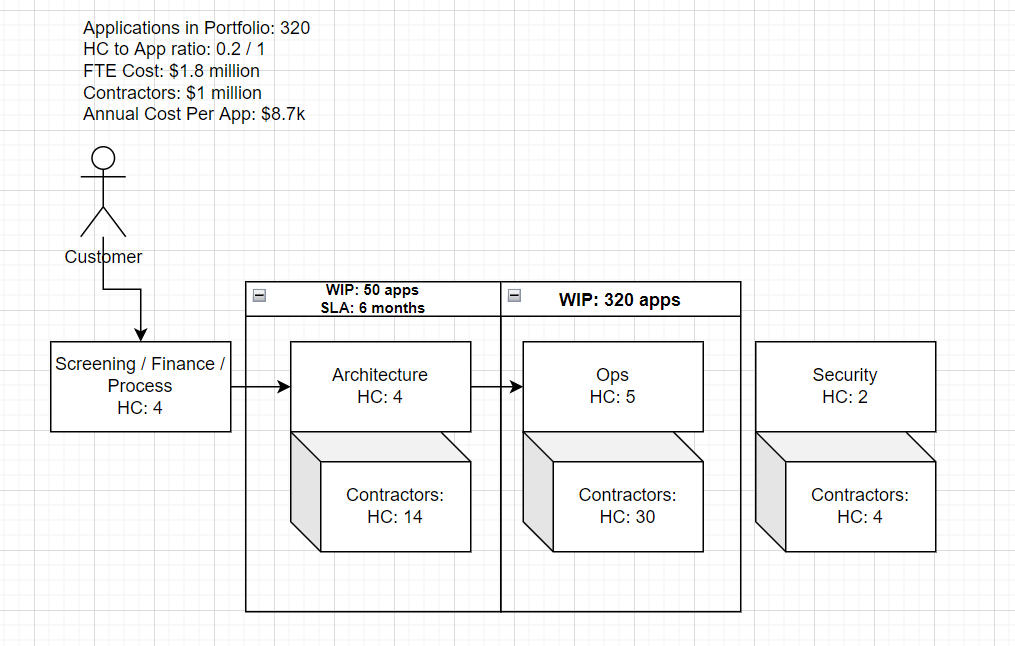
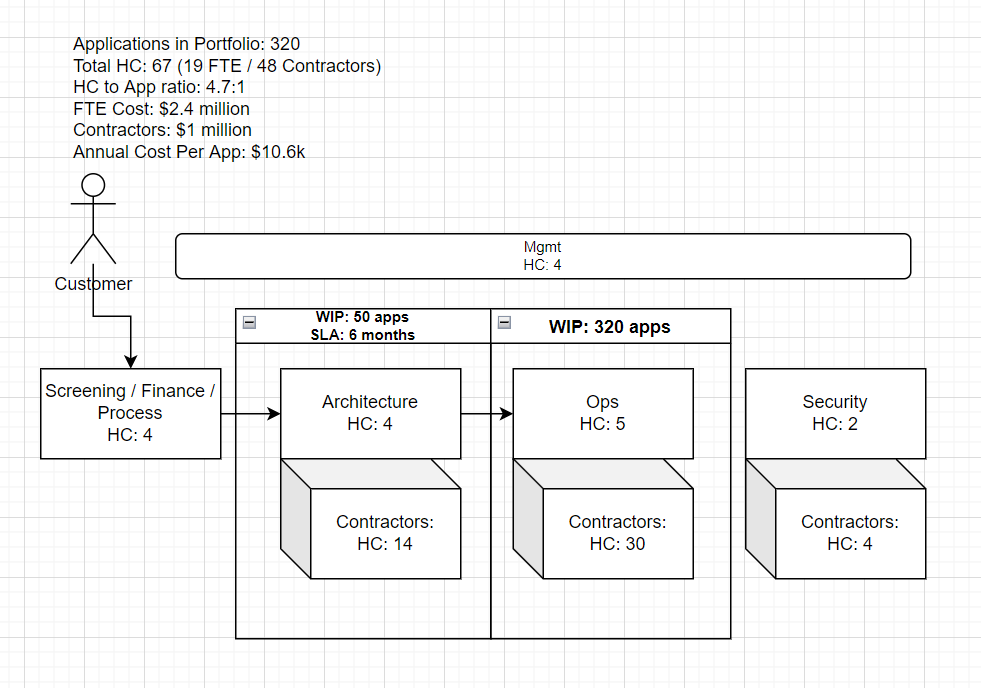
Added a lot more article content to cloud cost

diff --git a/content/posts/cloud-talent.md b/content/posts/cloud-talent.md
@@ -123,18 +123,72 @@ We want to have a fast track for standard applications and also be able to suppo
 |   App Category  | Monthly Fee | Number of Engineers |
 |-----------------|-------------|---------------------|
 | Standard Small  |   $1k       |       0.1           |
-| Standard Medium |   $5k       |        0.5          |
-| Standard Large  |   $10k      |        1            |
-| Custom Small    |   $12k      |       1.2           |
-| Custom Medium   |   $20k      |        2            |
-| Custom Large    |   $30k      |        3            |
+| Standard Medium |   $5k       |       0.2           |
+| Standard Large  |   $10k      |       0.5           |
+| Custom Small    |   $12k      |       0.8           |
+| Custom Medium   |   $20k      |        1            |
+| Custom Large    |   $30k      |        2            |
 
-However, let's look at a real world organization that's struggling and break down the numbers.
+However, let's look at a real world centralized cloud hosting organization that's struggling and break down the numbers.
 
 ![Org](/img/org.png)
 
+The above diagram describes a team that controls access to their cloud environments and the apps that go into them. They are severely understaffed for the number of applications in their portfolio. When requests come in for very simple changes (e.g., add a new load balancer so a site is internet facing) it can take up to 6 months to service the request. This is because larger, more important projects are taking up all of the resources on the team. This could be solved somewhat by better time management but it's really a simple case of being understaffed. The team needs to hire more engineers but the question for management is "how many more do we need?".
+
+Let's assume that middle management takes the advice of this article and does some math. They find out which of the applications in their portfolio fall into the T-Shirt categories and publish the findings as
+
+<sub>Assuming per engineer (FTE and contractor) average salary of 100k USD</sub>
+
+| App   Category            | Monthly Fee | Break Even Fee | Number of Engineers | Number of Applications | Required Engineers | App2Eng Ratio | Annual Cost | Annual Revenue |
+|---------------------------|-------------|----------------|---------------------|------------------------|--------------------|---------------|-------------|----------------|
+| Standard Small            | $1,000      | $833           | 0.1                 | 200                    | 20                 | 10            | $2,000,000  | $2,400,000     |
+| Standard Medium           | $2,000      | $1,667         | 0.2                 | 80                     | 16                 | 5             | $1,600,000  | $1,920,000     |
+| Standard Large            | $3,000      | $3,333         | 0.4                 | 15                     | 6                  | 2.5           | $600,000    | $540,000       |
+| Custom Small              | $6,000      | $6,667         | 0.8                 | 12                     | 9.6                | 1.25          | $960,000    | $864,000       |
+| Custom Medium             | $15,000     | $8,333         | 1                   | 8                      | 8                  | 1             | $800,000    | $1,440,000     |
+| Custom Large              | $20,000     | $13,333        | 1.6                 | 5                      | 8                  | 0.625         | $800,000    | $1,200,000     |
+|                           |             |                |                     |                        |                    |               |             |                |
+|                           |             |                | TOTAL               | 320                    | 67.6               | 1.875         | $6,760,000  | $8,364,000     |
+|                           |             |                |                     |                        |                    |               |             |                |
+
+When management gets together and looks at the size of the current organization and the requirements per the model they get excited. The headcount requirements match what's required almost exactly! Now all we have to do is get our billing sorted out and we can start bringing in revenue for this department. High fives all around. However, the grizzled ops manager raises their hand and bursts everyone's bubble by saying "Yeah, the only problem is that this organization is dysfunctional. It takes 6 months to get anything done and I have to chew on garbage all day because there's no consistency". Why is that? What are we doing wrong?
+
+One of the reasons that we've already covered is that all of the applications are in currently under the Custom category and it would be a large effort to standardize the existing portfolio. Maybe we'd have enough headcount if we'd started keeping apps in their lanes from day one but we'll have to agree that all net new must correctly fall into one of the product categories. This type of organizational transformation is a topic for another day so for now let's just pretend that all of our apps magically transformed, we'd be in good shape then right? Well, there's another aspect of this example team that we haven't covered yet that will threaten its success--yes, it's that elephant in the room--the Contractors. 
+
+## The "Give a Damn" Factor
+There's a concept that a lot of upper leadership fails to understand--How many people are there that actually give a damn about the applications they are supporting? When people don't care about what they're working on then everything else fails--the designs lack thought, the operations aren't stable, they're unmotivated and speed to market suffers. A lot of companies try to measure how much their employees give a damn by setting feeder pellet KPI's that most people ignore because they don't represent real life. KPI's may work reasonably well for simple tasks but we're talking about very complex systems being worked on by highly educated and seasoned professionals. 
+
+Just like developers working on a shared codebase, it's very difficult to transfer the train of thought for a new feature to another person at the end of a shift--once an engineer has a system loaded into their brain it makes the most sense to have that engineer own and finish the job. Therefore, one of the most important factors in an organization that manages complex things is a culture of ownership. Let us quickly define what we mean by ownership of a cloud based application:
+
+* Understand what the app does.
+* Understand who the stakeholders are. 
+* Understand the basic architecture is.
+* Understand how much downtime the app can handle and what its weaknesses are.
+* Understand how to make changes to the app infrastructure.
+* Understand how to monitor the performance of the application
+* Understand how much the app's infrastructure costs the stakeholders
+
+_Somebody_ has to know all of these things to adequately support the application! Our example team appears to have enough good people, they're highly paid and they didn't get to this point in life without caring about technology. So why then are good people failing to take ownership? Let's examine some possible factors: 
+
+* They are contractors who don't have clear requirements and are paid to execute, not own. 
+* The organization is all toil and has no moon-shots or heroic teams working to someday fix the problems in the work.
+* They are understaffed, overworked, jaded and burnt out
+* Their customers don't give a damn so why should they?
+
+First of all, contractors are good people. They are often highly technical, amiable, and hard working. Of course, this varies based on their rates but generally holds true. The biggest problem is that no matter how expensive they are they will never be able to provide the level of ownership that is required to support a complex application. It's just a fundamental rule embedded in the nature of the relationship. They are paid to execute tasks and even if they are given the task of ownership they will always fall short of what is needed for an organization because the nature of the relationship is temporary. Everyone they interact with inside the organization knows that there is an egg timer ticking and they will fail to create lasting relationships. Even if contractor tenureship is longer than the full time employees due to attrition it's still a scarlet letter stamped on them in the company directory. It's just human nature. 
+
+If the organization is all toil and there are no "moon-shots" it means that the people on the team see no hope for the future. Even if all of their work is going well then human psychology will still make them only see the annoying parts of their job. If they know that there is nobody working on making "the workplace of tomorrow" then all hope is lost. People _need_ to be able to think about an unsolvable problem in their daily life and think to themselves "After `person` builds `thing` maybe this will get better, I'll just keep toiling for now because I know there is some hope". We'll have to factor this into our design of a highly functional team.  
+
+The overworked problem should hopefully work itself out once the team is staffed appropriately per our model. See above reference to moon-shot team to give a temporary morale boost in the mean time. 
+
+Now what if the customers we're serving don't seem to care whether or not the designs are good and the infrastructure is stable? This is actually a very common problem in large organizations where apps have been moved around and inherited as departments restructure and employees leave. It's demoralizing to work for hours on a design or a fix and proudly present your findings to a room full of crickets. This is where management and culture has to step in and save the day. Jeff Bezos once said in a shareholder letter that "High standards are contagious". Observations of real world teams indicate that as long as there is one person--be it a customer, manager, or peer that seems to care about the quality of your work then that is enough to replace the lack of care from a customer. This will come in time as the entire organization's level of quality and pride go up. 
+
+So, could we somehow incorporate these factors into our team planning table? Why yes, we could...
+
+
+
 ## Conclusion
-The bottom line is that cloud infrastructure is just damned complicated these days. It's very difficult to divorce the application from the infrastructure and thus the engineer to application ratio has gotten higher and higher as the list of cloud features has grown. 
+The bottom line is that cloud infrastructure is just damned complicated these days. It's very difficult to divorce the application from the infrastructure and thus the application to engineer ratio has gotten lower and lower as the list of cloud features has grown. 
 
 We have entered an era in enterprise cloud where most of us need to be driving our applications to work in Honda Civics and Ferrari's should be expensive to drive. In other words, standardized work should be the easy way to get applications hosted with few barriers. Custom architecture should be available albeit expensive. Either way, the most important aspect is having a rock solid funding model for both approaches which is likely higher than most people expect. 
 
